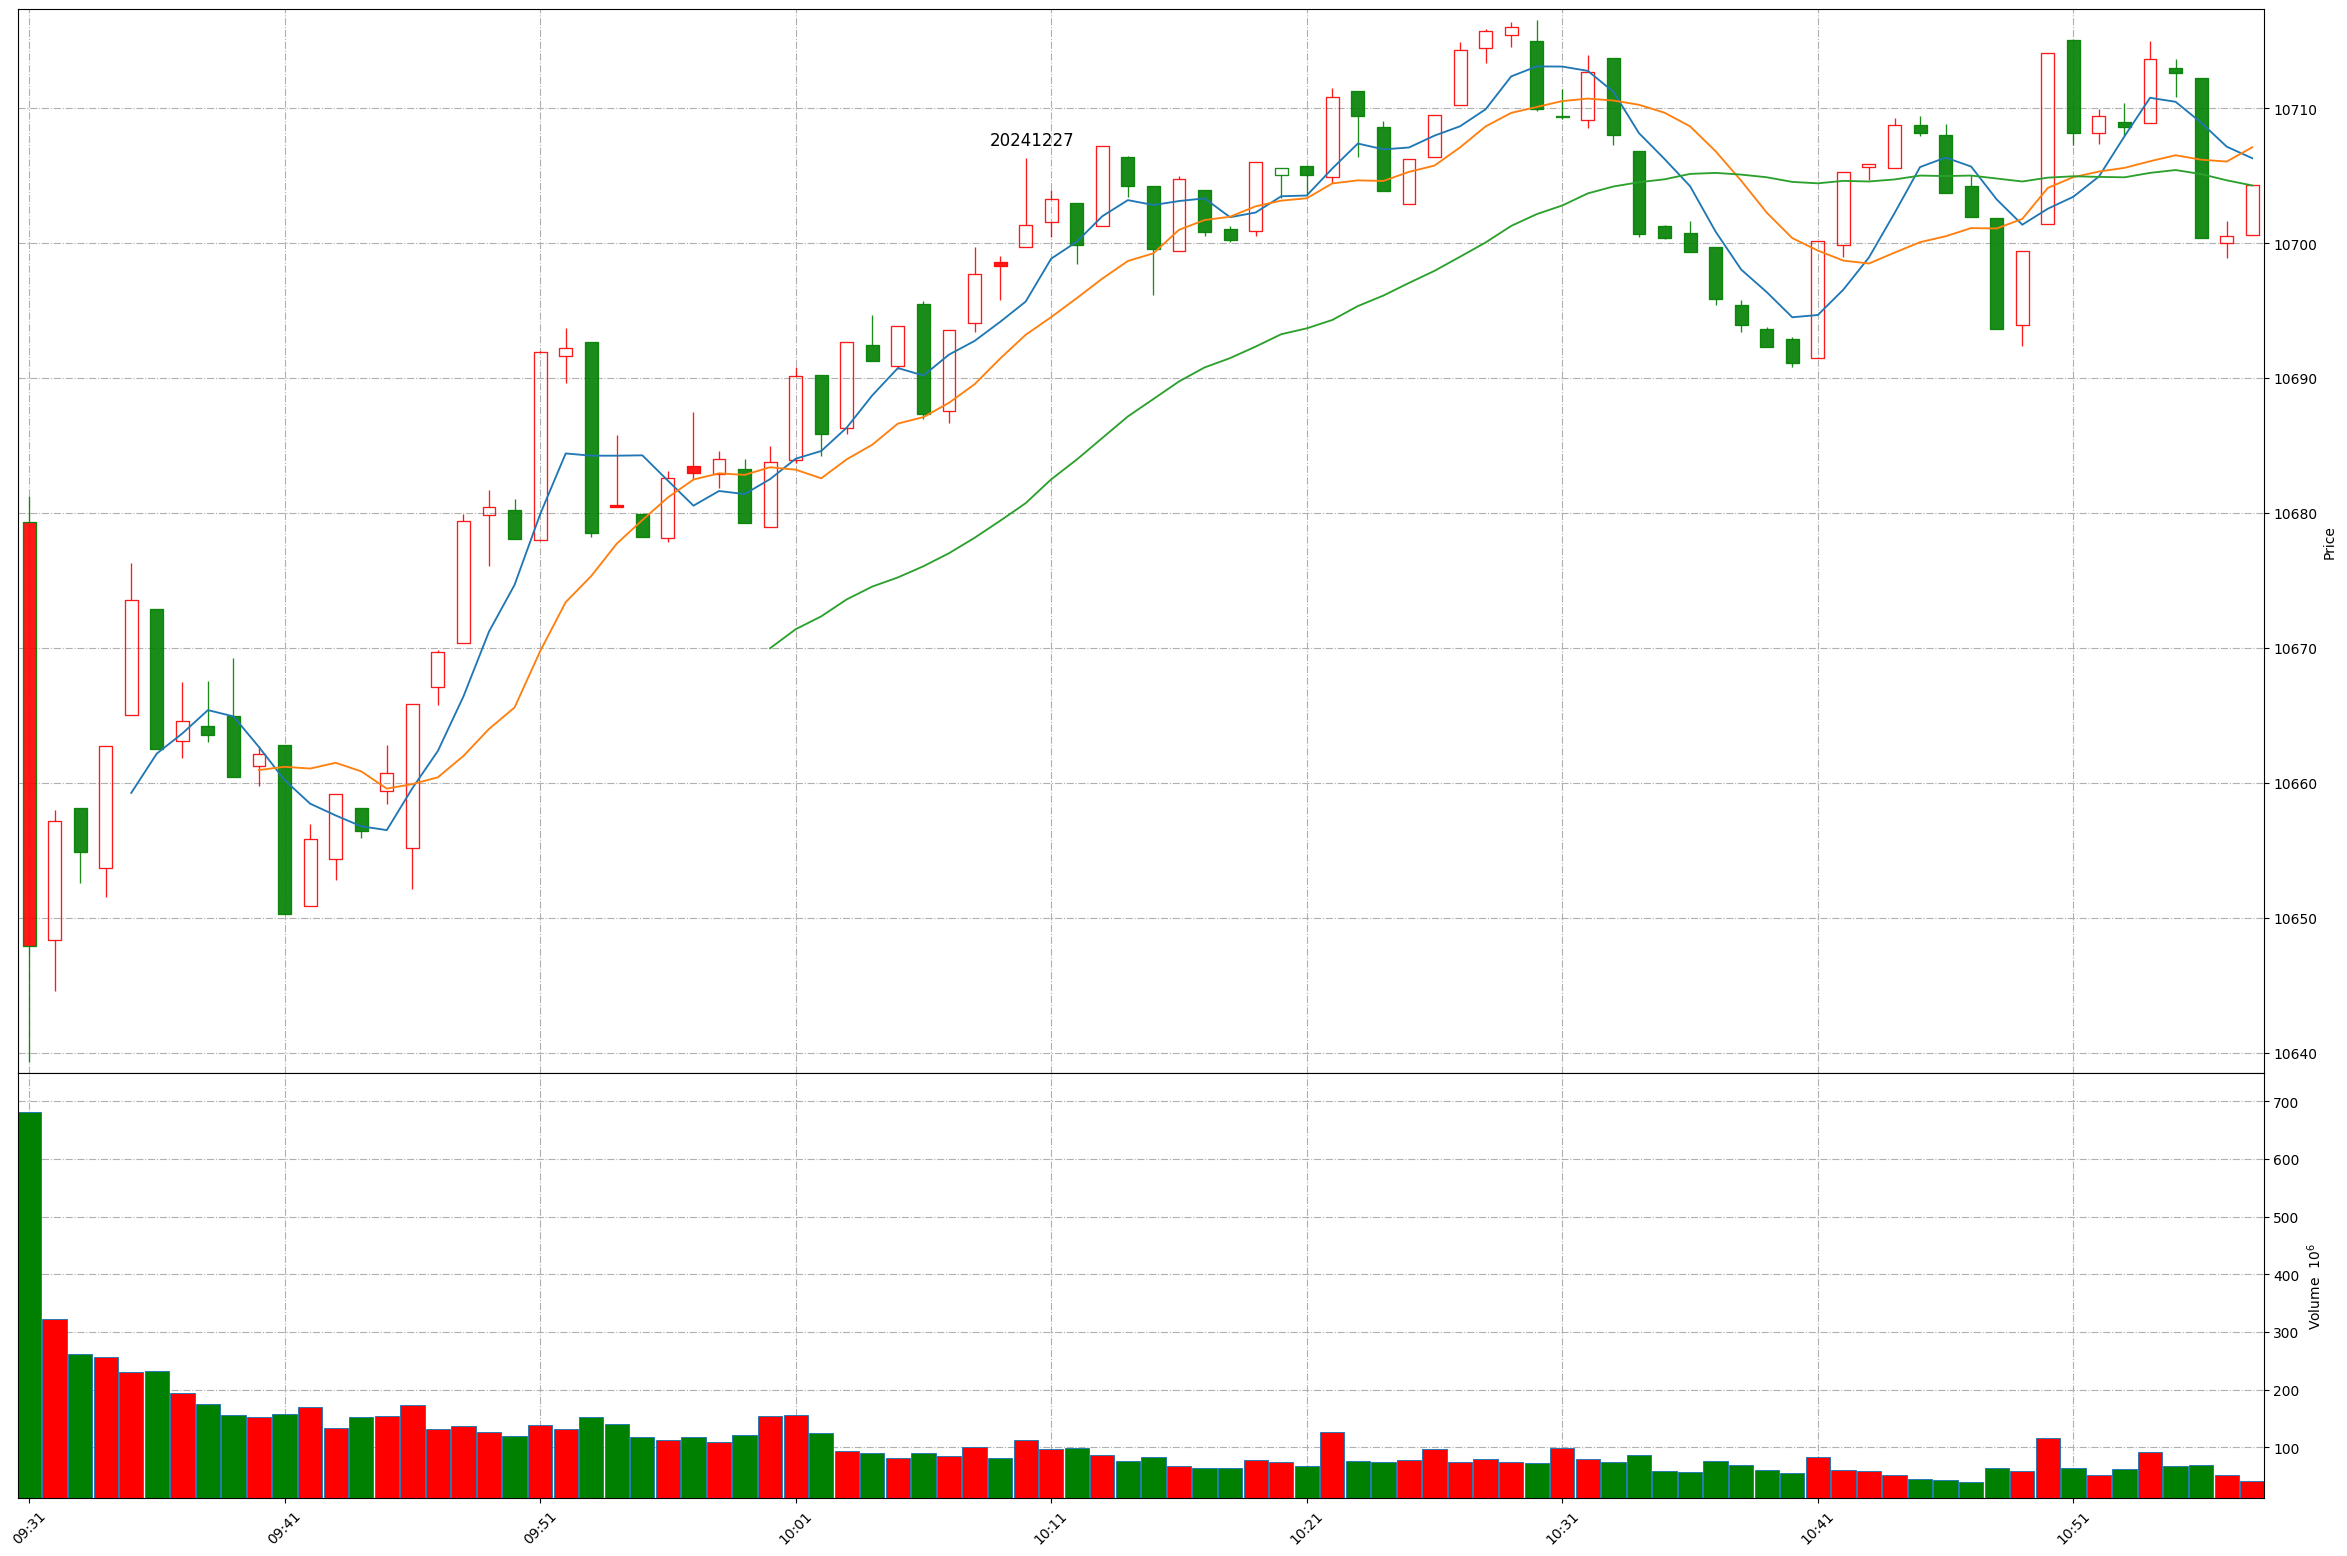
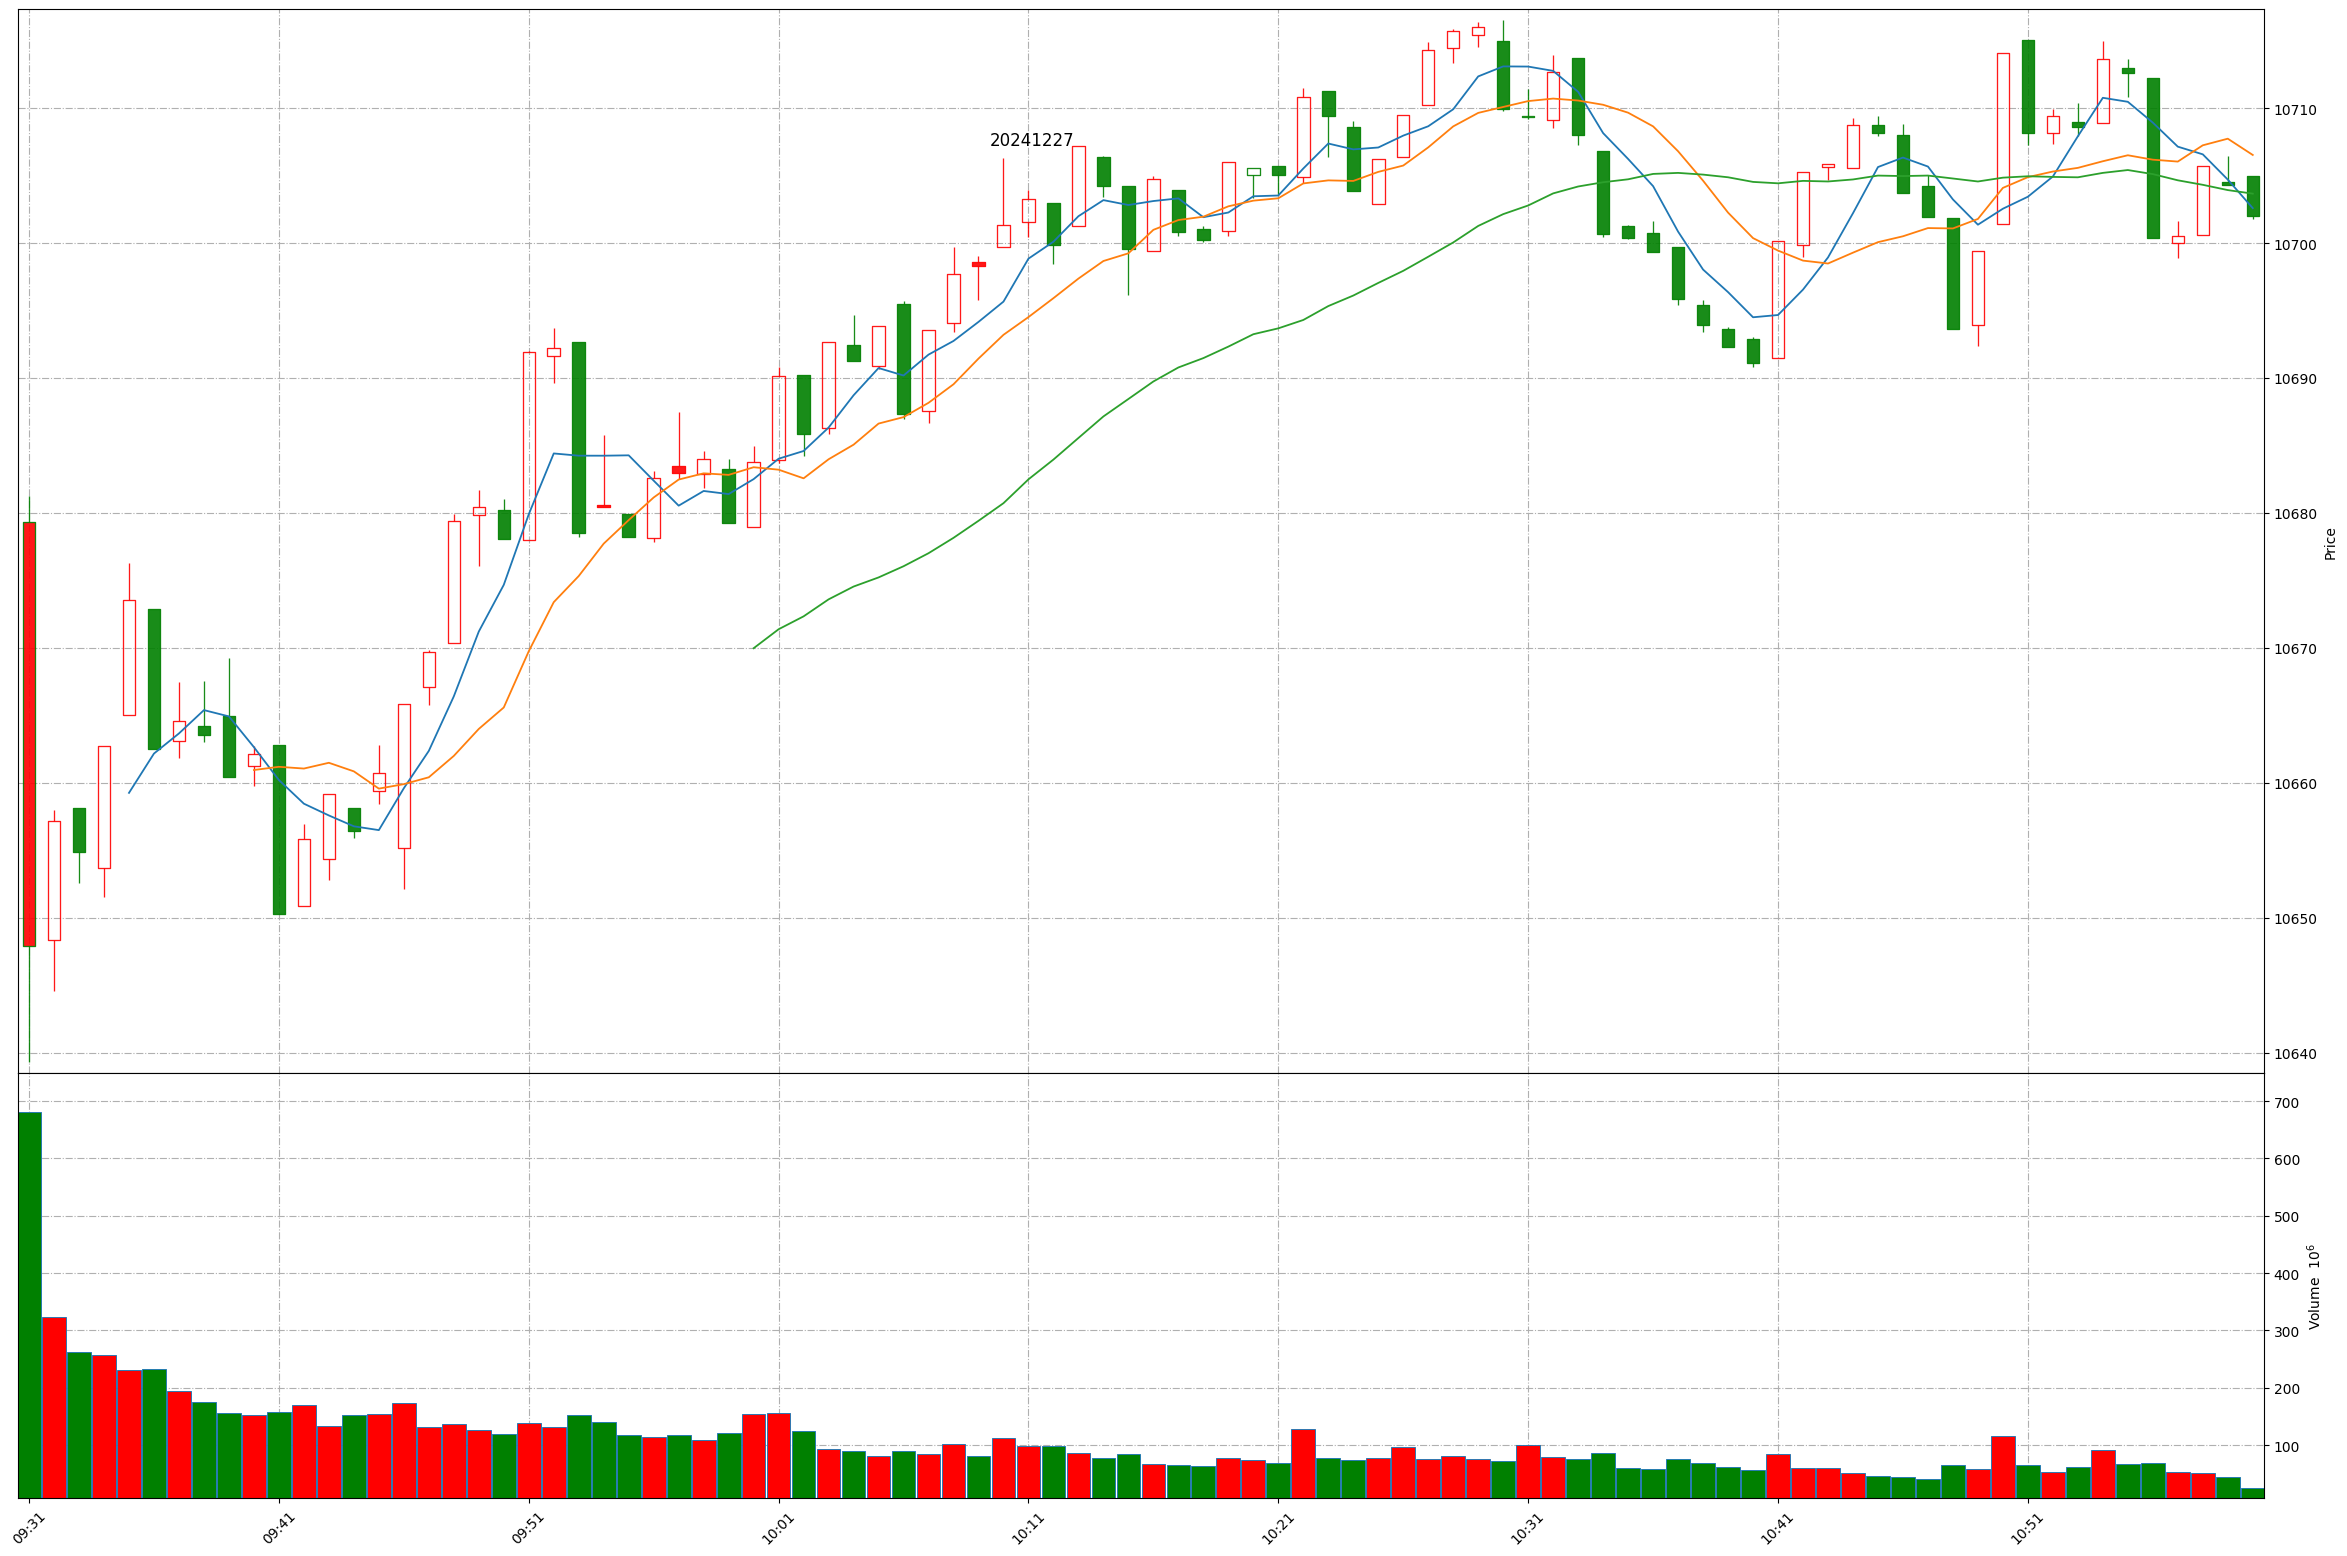
Github action update at 2024-12-27 10:59:40.

diff --git a/README.md b/README.md
@@ -1,11 +1,11 @@
 
 # Daily-A-share-market-quotes 每日 A 股指数（5min 更新）- 20241227
 
-### 上证指数 20241227 10:58
+### 上证指数 20241227 10:59
 ![](./fig/2024/12/20241227-sh000001.png)
 
-### 深证成指 20241227 10:58
+### 深证成指 20241227 10:59
 ![](./fig/2024/12/20241227-sz399001.png)
 
-### 北证50 20241227 10:58
+### 北证50 20241227 10:59
 ![](./fig/2024/12/20241227-bj899050.png)
